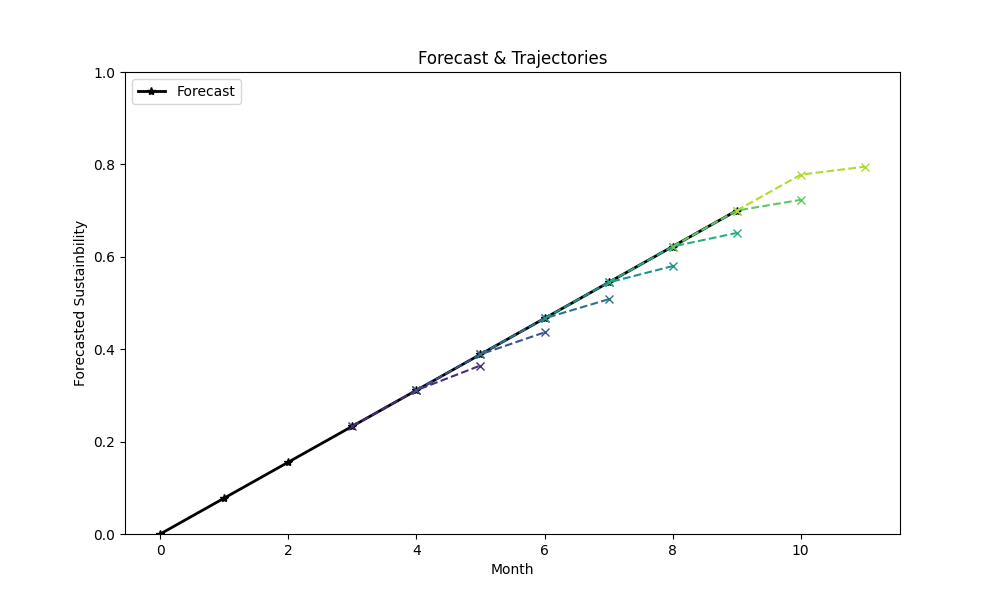
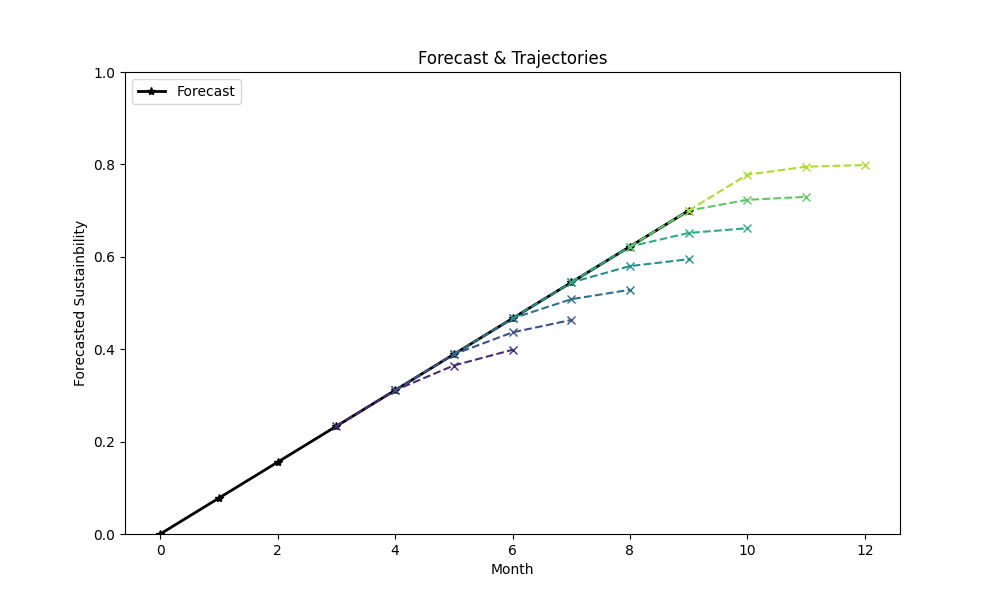
autoregressive forecasting available

diff --git a/src/algorithms/trajectory.py b/src/algorithms/trajectory.py
@@ -11,11 +11,14 @@ import pandas as pd
 import numpy as np
 import matplotlib.pyplot as plt
 import seaborn as sns
+from statsmodels.tsa.arima.model import ARIMA
+from pmdarima import auto_arima
 
 ## built-in
 import unittest
 import json
 from pathlib import Path
+import warnings
 
 
 # Helper Algorithms
@@ -80,7 +83,7 @@ def export_traj(trajectories: dict | list | np.ndarray, filename: Path=None) -> 
     return export_str
 
 
-def plot_traj(forecast: np.ndarray | list, trajectories: np.ndarray, m: int=-1, **label_kwargs) -> None:
+def plot_traj(forecast: np.ndarray | list, trajectories: np.ndarray, m: int=-1, ci=None, **label_kwargs) -> None:
     """Plots the trajectory given a forecast.
 
     Args:
@@ -88,6 +91,7 @@ def plot_traj(forecast: np.ndarray | list, trajectories: np.ndarray, m: int=-1, 
         trajectories (np.array): trajectories for all months
         m (int, optional): month number to plot; if not specified, plot all
             months' trajectories.
+        ci (): confidence interval to plot as well
         **label_kwargs: specify the following:
             - "title" for the plot title
             - "path" for the save path
@@ -171,7 +175,7 @@ def traj_simple(forecast: np.ndarray, lag: int=3, k: int=3, **grad_kwargs) -> np
         raise ValueError(f"Lag must be greater than 1 (need at least one slope): {lag=}")
     
     # trackers
-    trajectories = [[None] * k for _ in range(lag, n)]
+    trajectories = [[None] * (k + 1) for _ in range(lag, n)]
     
     # generation of the monthly trajectories
     for i in range(lag, n):
@@ -181,7 +185,7 @@ def traj_simple(forecast: np.ndarray, lag: int=3, k: int=3, **grad_kwargs) -> np
         pos = forecast[i]
         
         # generation of each trajectory
-        for j in range(k):
+        for j in range(k + 1):
             # clip position
             pos = max(0, pos)
             pos = min(1, pos)
@@ -216,22 +220,74 @@ def traj_ar(forecast: np.ndarray, lag: int=3, k: int=3, arch: str="ARIMA", ci: i
             forecasts. If our forecast has n months of data, we return an 
             ndarray of dimension (n - (lag + 1)) x k where the 0th row maps to
             the (lag + 1)th month forecasts, and so on.
+        np.ndarray: for every month lag - 1 and above, we generate a lower and 
+            upper bound on the trajectory for the forecast
     """
     
-    pass
+    # suppress MLE and convergence failure warnings
+    warnings.filterwarnings("ignore")
+    
+    # edge case
+    n = len(forecast)
+    if n < lag:
+        raise ValueError(f"Length of forecast can't be less than lag: {n=} < {lag=}")
+    if lag <= 1:
+        raise ValueError(f"Lag must be greater than 1 (need at least one slope): {lag=}")
+    
+    # trackers
+    trajectories = [[None] for _ in range(lag, n)]
+    ci = [[None] for _ in range(lag, n)]
+    est_order = (
+        lag,        # autoregressive, use all lag samples
+        1,          # differencing
+        lag         # moving average component, use all lag samples
+    )
+    
+    # generation of the monthly trajectories
+    for i in range(lag, n):
+        # build simple AR model; we'll use basic lag terms
+        match arch:
+            case "ARIMA":
+                model = ARIMA(forecast[:i + 1], order=est_order)
+            
+            case _:
+                raise ValueError(f"Invalid architecture {arch=}")
+        
+        model = model.fit()
+        
+        # generate trajectory
+        forecaster = model.get_forecast(k)
+        cur_traj = forecaster.predicted_mean
+        traj_ci = forecaster.conf_int()
+        
+        # clip trajectories to be a valid probability
+        cur_traj = np.clip(cur_traj, 0, 1)
+        
+        # track
+        trajectories[i - lag][0] = forecast[i]        # root the first prediction to cur value
+        trajectories[i - lag].extend(cur_traj)
+        ci[i - lag][0] = [forecast[i], forecast[i]]   # no variance in the current forecast
+        ci[i - lag].extend(traj_ci)
+        
+    # export as ndarray
+    return np.array(trajectories), np.array(traj_ci)
 
 
 # Unit Tests
-class TrajTesterSimple(unittest.TestCase):
+class TrajTester(unittest.TestCase):
     def setUp(self):
         # arrays for testing
         self.data = [
             np.linspace(0.0, 0.7, 10),
-            np.random.random(size=(10))
+            np.cumsum(np.random.random(size=(10)) / 10),
+            np.sin(np.linspace(0, 2 * np.pi, 10)) / 2 + 0.5,
+            1 / (1 + np.exp(-np.linspace(-5, 5, 10)))
         ]
         self.labels = [
             "linear",
-            "random"
+            "random",
+            "sinusoidal",
+            "sigmoid"
         ]
     
     def diff_test(self):
@@ -251,12 +307,24 @@ class TrajTesterSimple(unittest.TestCase):
                 data, res,
                 path=Path().cwd() / "visuals" / "trajectories" / (self.labels[i] + "-exp")
             )
+            
+    def ar_test(self):
+        for i, data in enumerate(self.data):
+            res, ci = traj_ar(forecast=data)
+            print(res)
+            print(ci)
+            plot_traj(
+                data, res, ci=ci,
+                path=Path().cwd() / "visuals" / "trajectories" / (self.labels[i] + "-arima")
+            )
         
 
 # Run Tests
 if __name__ == "__main__":
-    tester = TrajTesterSimple()
+    tester = TrajTester()
     tester.setUp()
+    tester.ar_test()
+    exit()
     tester.diff_test()
     tester.exp_test()
     
